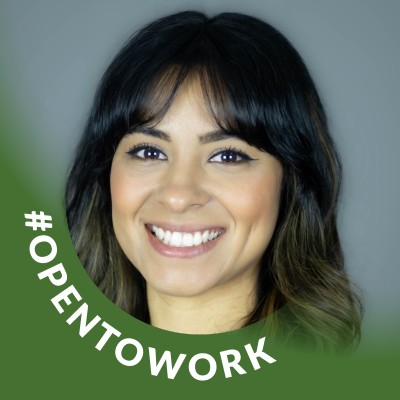
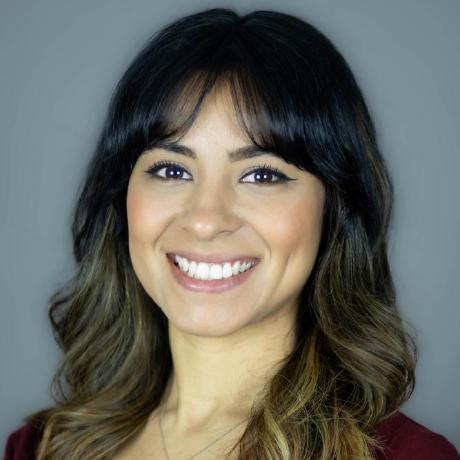
Incorporated feedback given: Made members snippet responsive on lg screens. Deleted members subheading and changed member photo.

diff --git a/components/Members/MembersSnippet.tsx b/components/Members/MembersSnippet.tsx
@@ -20,7 +20,7 @@ const Members = (props: Props) => {
   return (
     <section className={styles.avatars}>
       <h2>Members</h2>
-      <div className="mt-10 grid grid-cols-1 gap-y-10 md:grid md:grid-cols-2 md:grid-rows-3 md:gap-x-10">
+      <div className="mt-10 grid grid-cols-1 gap-y-10 md:grid md:grid-cols-2 md:grid-rows-3 md:gap-x-10 lg:grid lg:grid-cols-3 lg:grid-rows lg:gap-x-10">
         {membersSorted.slice(0, 6).map((member) => (
           <Member key={member.slug} member={member} />
         ))}

diff --git a/app/members/page.tsx b/app/members/page.tsx
@@ -16,7 +16,6 @@ export default async function MembersPage() {
       <div className={styles.container}>
         <div className={styles.center}>
           <h1 className="mt-20 text-6xl">Members</h1>
-          <h4 className="mt-2">Meet the LatinaDev Community</h4>
           <div className="mt-20 grid grid-cols-1 gap-y-10 md:grid md:grid-cols-2 md-grid-rows md:gap-x-10 lg:grid lg:grid-cols-3 lg:grid-rows lg:gap-x-10">
             {members.map((member) => (
               <div key={member.slug}>

diff --git a/app/_members/lesly-juarez.md b/app/_members/lesly-juarez.md
@@ -3,4 +3,5 @@ name: Lesly Juarez
 added: "2023-05-12"
 level: "Individual Contributor"
 linkedin: "lesly-b-juarez"
+github: "jlesly"
 ---
